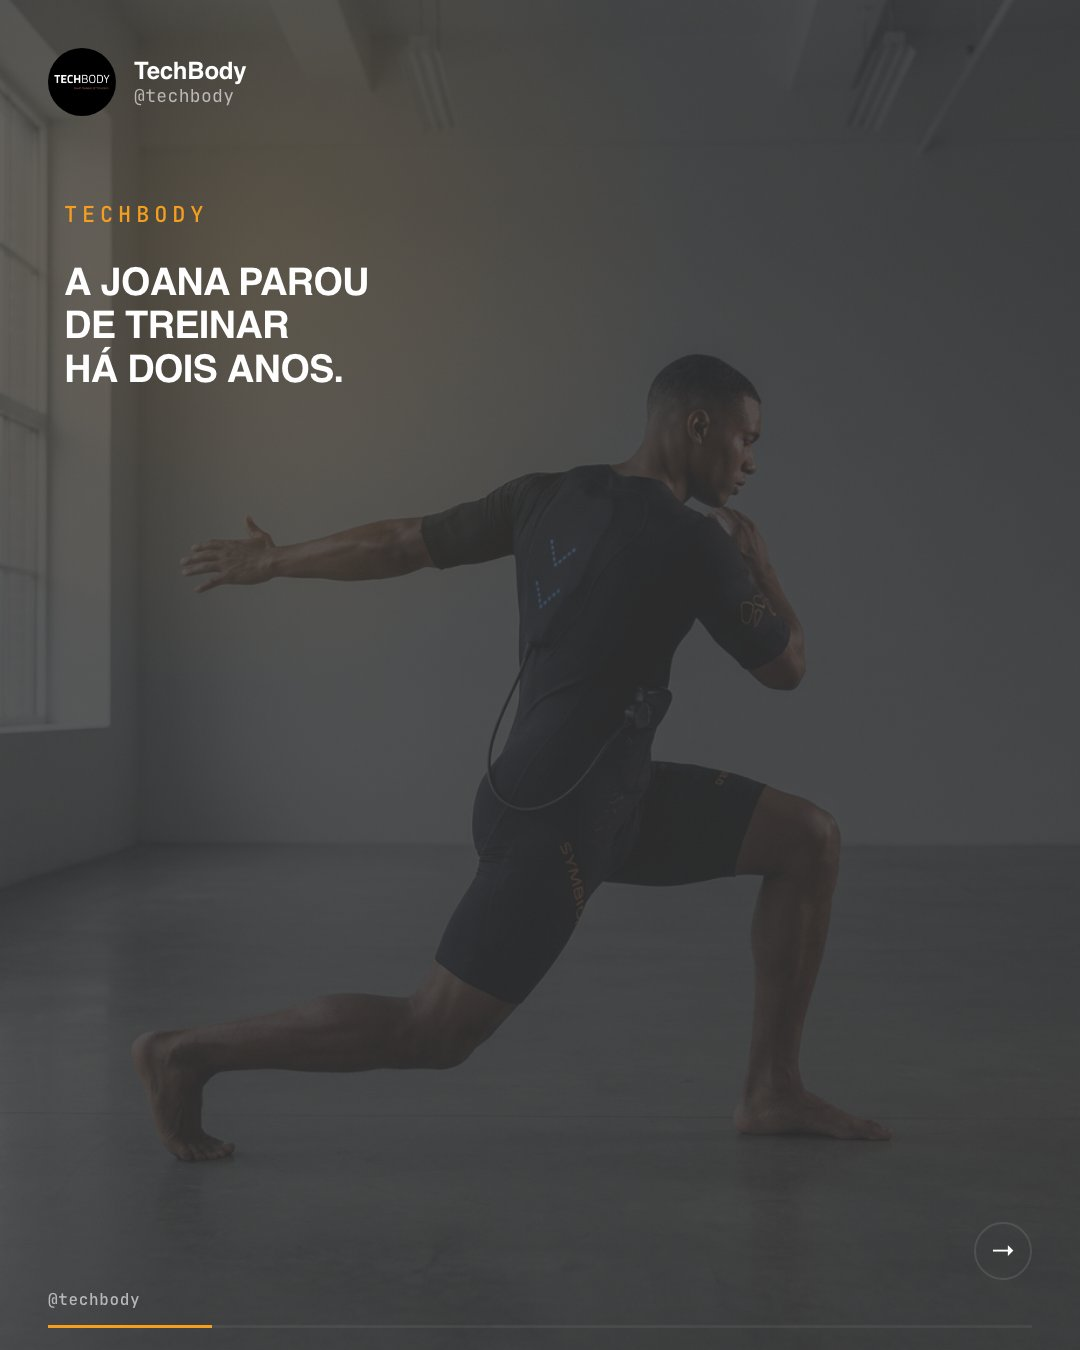
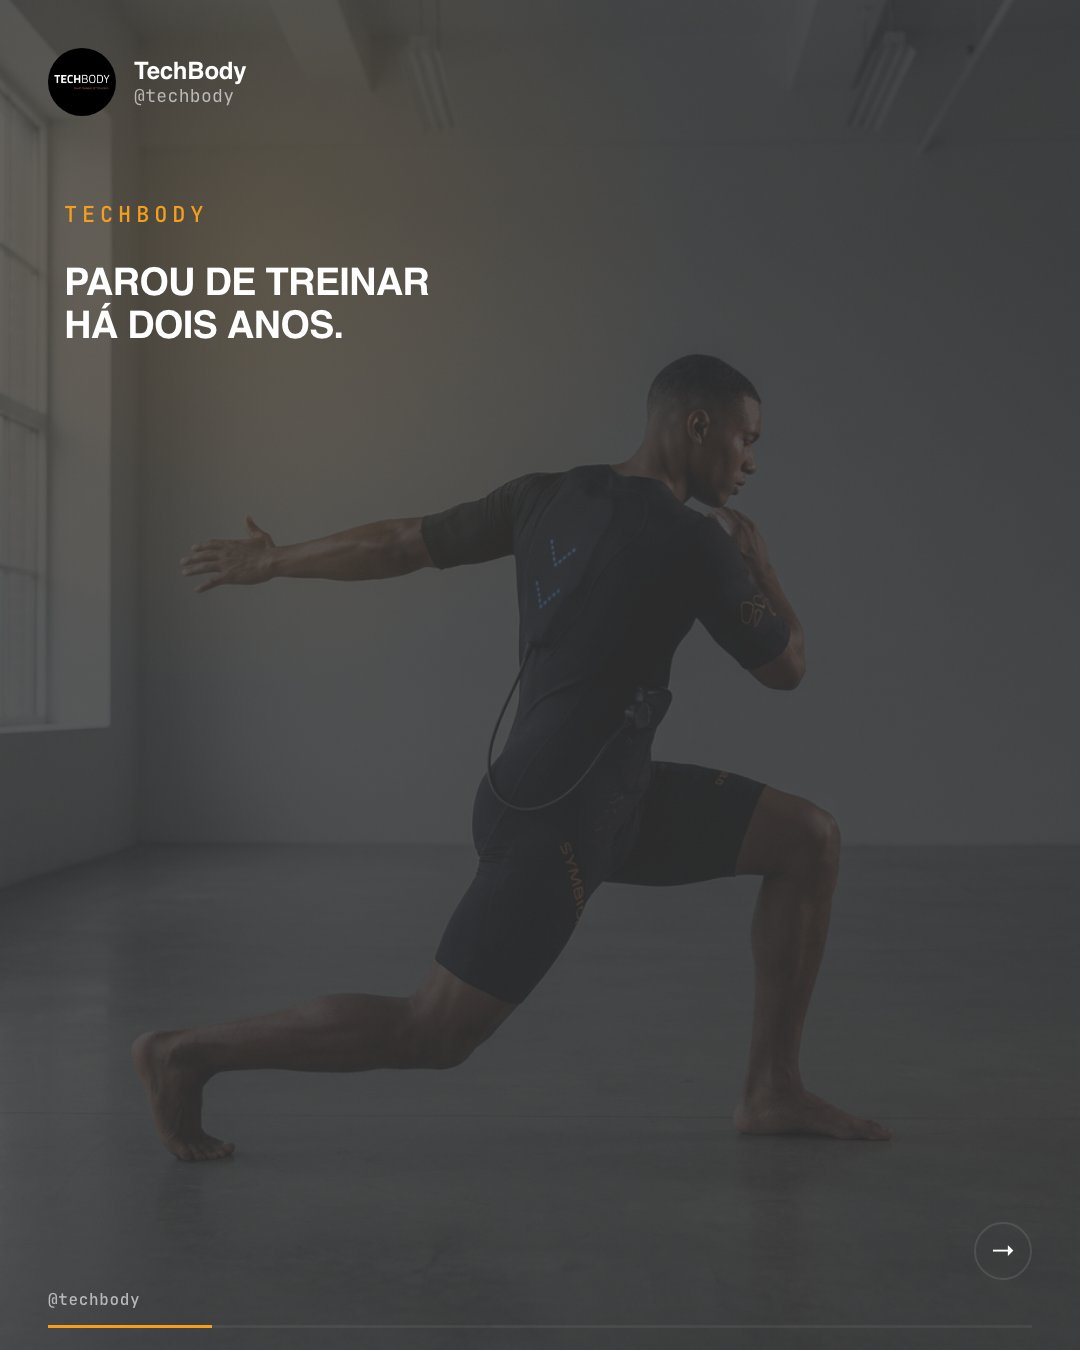
fix(storytelling): remover nomes proprios da TB e TBU (sem sujeito)
TB c01: 'O Rui vai de ferias' → 'Vai de ferias'
TB c03: 'A Joana parou de treinar' → 'Parou de treinar'
TB c04: 'O Pedro quer abrir' → 'Quer abrir'
TBU c04: 'O Pedro hesitava' → 'Hesitava'
Screenshots regenerados.

Changed region(s): [[0.0611, 0.1867, 0.3972, 0.28]]

diff --git a/public/brands/techbody/output/2026-07/carrosseis/c04-espaco-estudio.html b/public/brands/techbody/output/2026-07/carrosseis/c04-espaco-estudio.html
@@ -100,7 +100,7 @@ body { font-family: var(--font-display); color: var(--text); }
   <div class="profile"><div class="avatar" style="background:var(--accent);"><img src="_avatar.png" alt="TechBody" style="object-fit:cover;padding:0;"/></div><div class="who"><div class="name">TechBody</div><div class="handle">@techbody</div></div></div>
   <div class="hero-stack">
     <div class="kicker">TechBody</div>
-    <h1>O&nbsp;Pedro quer abrir um&nbsp;estúdio.<br>O&nbsp;espaço parece pequeno.</h1>
+    <h1>Quer abrir um&nbsp;estúdio.<br>O&nbsp;espaço parece pequeno.</h1>
   </div>
   <div class="arrow-mark">→</div><div class="watermark">@techbody</div><div class="progress"><span style="width:16.666666666666664%"></span></div>
 </article>

diff --git a/public/brands/techbody/output/2026-07/carrosseis/c01-ferias-progresso.html b/public/brands/techbody/output/2026-07/carrosseis/c01-ferias-progresso.html
@@ -93,7 +93,7 @@ body { font-family: var(--font-display); color: var(--text); }
   <div class="profile"><div class="avatar" style="background:var(--accent);"><img src="_avatar.png" alt="TechBody" style="object-fit:cover;padding:0;"/></div><div class="who"><div class="name">TechBody</div><div class="handle">@techbody</div></div></div>
   <div class="hero-stack">
     <div class="kicker">TechBody</div>
-    <h1>O&nbsp;Rui vai de&nbsp;férias.<br>O&nbsp;treino vai com&nbsp;ele.</h1>
+    <h1>Vai de&nbsp;férias.<br>O&nbsp;treino vai com&nbsp;ele.</h1>
   </div>
   <div class="arrow-mark">→</div><div class="watermark">@techbody</div><div class="progress"><span style="width:16.666666666666664%"></span></div>
 </article>

diff --git a/public/brands/techbody/output/2026-07/carrosseis/c03-para-quem-e.html b/public/brands/techbody/output/2026-07/carrosseis/c03-para-quem-e.html
@@ -107,7 +107,7 @@ body { font-family: var(--font-display); color: var(--text); }
   <div class="profile"><div class="avatar" style="background:var(--accent);"><img src="_avatar.png" alt="TechBody" style="object-fit:cover;padding:0;"/></div><div class="who"><div class="name">TechBody</div><div class="handle">@techbody</div></div></div>
   <div class="hero-stack">
     <div class="kicker">TechBody</div>
-    <h1>A&nbsp;Joana parou de&nbsp;treinar<br>há&nbsp;dois&nbsp;anos.</h1>
+    <h1>Parou de&nbsp;treinar<br>há&nbsp;dois&nbsp;anos.</h1>
   </div>
   <div class="arrow-mark">→</div><div class="watermark">@techbody</div><div class="progress"><span style="width:16.666666666666664%"></span></div>
 </article>

diff --git a/public/brands/techbody_u/output/2026-07/carrosseis/c04-comprar-com-confianca.html b/public/brands/techbody_u/output/2026-07/carrosseis/c04-comprar-com-confianca.html
@@ -100,7 +100,7 @@ body { font-family: var(--font-display); color: var(--text); }
   <div class="profile" style="gap:0;"><img src="../../../assets/logos/magnific__other-black-text-on-a-white-background-with-smalle__28184.png" alt="TechBody U" style="height:48px;width:auto;display:block;"/></div>
   <div class="hero-stack">
     <div class="kicker">TechBody U</div>
-    <h1>O&nbsp;Pedro hesitava.<br>Equipamento para&nbsp;casa, <em>sem&nbsp;receios</em>.</h1>
+    <h1>Hesitava.<br>Equipamento para&nbsp;casa, <em>sem&nbsp;receios</em>.</h1>
   </div>
   <div class="arrow-mark">→</div><div class="watermark">@techbody_u</div><div class="progress"><span style="width:16.666666666666664%"></span></div>
 </article>

diff --git a/public/aprovacao-luiz-202605/js/config.js b/public/aprovacao-luiz-202605/js/config.js
@@ -35,4 +35,4 @@ export const AUTH_ENABLED = false;
 // Versão do app. Comparada periodicamente contra /version.txt no servidor.
 // Se divergir, o badge muda para "🔄 Nova versão" e o user sabe que está
 // numa sessão desactualizada. Bump em cada deploy importante.
-export const APP_VERSION = "20260630-0403";
+export const APP_VERSION = "20260630-0413";

diff --git a/public/aprovacao-tb-202605/js/config.js b/public/aprovacao-tb-202605/js/config.js
@@ -35,4 +35,4 @@ export const AUTH_ENABLED = false;
 // Versão do app. Comparada periodicamente contra /version.txt no servidor.
 // Se divergir, o badge muda para "🔄 Nova versão" e o user sabe que está
 // numa sessão desactualizada. Bump em cada deploy importante.
-export const APP_VERSION = "20260630-0403";
+export const APP_VERSION = "20260630-0413";

diff --git a/public/aprovacao-luiz-202605/sw.js b/public/aprovacao-luiz-202605/sw.js
@@ -12,7 +12,7 @@
 // Resultado: a partir da segunda visita o user nunca mais vê versão
 // antiga, mesmo sem clear cache manual.
 
-const CACHE_NAME = 'pf-aprovacao-fallback-v141';
+const CACHE_NAME = 'pf-aprovacao-fallback-v142';
 
 // Activa imediatamente sem esperar que tabs abertas fechem.
 self.addEventListener('install', (event) => {

diff --git a/public/aprovacao-tb-202605/sw.js b/public/aprovacao-tb-202605/sw.js
@@ -12,7 +12,7 @@
 // Resultado: a partir da segunda visita o user nunca mais vê versão
 // antiga, mesmo sem clear cache manual.
 
-const CACHE_NAME = 'pf-aprovacao-fallback-v136';
+const CACHE_NAME = 'pf-aprovacao-fallback-v137';
 
 // Activa imediatamente sem esperar que tabs abertas fechem.
 self.addEventListener('install', (event) => {

diff --git a/public/aprovacao-luiz-202605/index.html b/public/aprovacao-luiz-202605/index.html
@@ -3,7 +3,7 @@
 <head>
 <meta charset="utf-8" />
 <meta name="viewport" content="20260629-1343" />
-<meta name="app-version" content="20260630-0403" />
+<meta name="app-version" content="20260630-0413" />
 <title>Aprovação · Conteúdo</title>
 
 <script>

diff --git a/public/aprovacao-tb-202605/index.html b/public/aprovacao-tb-202605/index.html
@@ -3,7 +3,7 @@
 <head>
 <meta charset="utf-8" />
 <meta name="viewport" content="20260629-1343" />
-<meta name="app-version" content="20260630-0403" />
+<meta name="app-version" content="20260630-0413" />
 <title>Aprovação · Conteúdo</title>
 
 <script>
